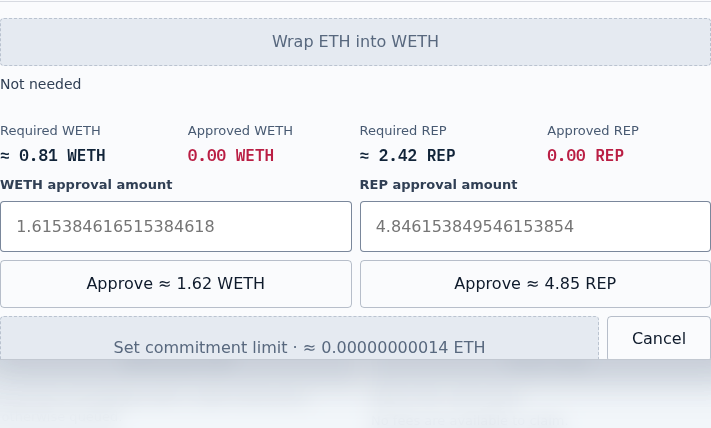
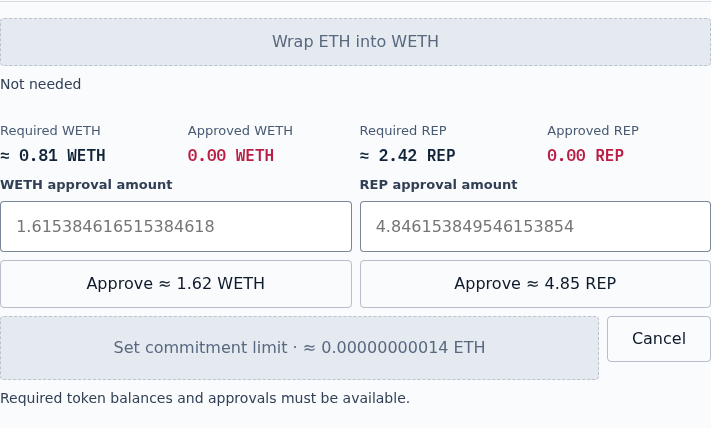
Validate persistent prerequisite controls and refresh final UI evidence

Changed region(s): [[0.0, 0.8201, 1.0, 0.9416]]

diff --git a/ui/statoblastShared/ts/features/security-pools/components/SecurityVaultSection.tsx b/ui/statoblastShared/ts/features/security-pools/components/SecurityVaultSection.tsx
@@ -10,17 +10,13 @@ import * as commonCopy from '@zoltar/ui-core-shared/copy/common.js'
 import * as securityPoolCopy from '../../../copy/securityPool.js'
 import { useEffect, useId, useRef, useState } from 'preact/hooks'
 import { AddressValue } from '@zoltar/ui-core-shared/components/AddressValue.js'
-import { CurrencyValue } from '@zoltar/ui-core-shared/components/CurrencyValue.js'
 import { FormInput } from '@zoltar/ui-core-shared/components/FormInput.js'
 import { LookupFieldRow } from '@zoltar/ui-core-shared/components/LookupFieldRow.js'
 import { LoadingText } from '@zoltar/ui-core-shared/components/LoadingText.js'
-import { MetricGrid } from '@zoltar/ui-core-shared/components/MetricGrid.js'
-import { MetricField } from '@zoltar/ui-core-shared/components/MetricField.js'
 import { OperationModal } from '@zoltar/ui-core-shared/components/OperationModal.js'
 import { RouteWorkflowPanel } from '@zoltar/ui-core-shared/components/RouteWorkflowPanel.js'
 import { SectionBlock } from '@zoltar/ui-core-shared/components/SectionBlock.js'
 import { StateHint } from '@zoltar/ui-core-shared/components/StateHint.js'
-import { TimestampValue } from '@zoltar/ui-core-shared/components/TimestampValue.js'
 import { normalizeAddress, sameAddress } from '@zoltar/ui-core-shared/lib/address.js'
 import { formatCurrencyBalanceWithUnit, formatCurrencyInputBalance } from '@zoltar/ui-core-shared/lib/formatters.js'
 import { balanceShortage } from '@zoltar/ui-core-shared/forms/inputs.js'
@@ -63,9 +59,8 @@ import {
 import type { SecurityVaultSectionProps } from '../../types.js'
 import { VaultBackingFactorForm, VaultBackingFactorModal } from './VaultBackingFactorForm.js'
 import { SelectedVaultSummarySection } from './SelectedVaultSummarySection.js'
-import { RepPriceStatusLabel } from './RepPriceStatusLabel.js'
 import { VaultQueuedOperationStatusCards } from './VaultQueuedOperationStatusCard.js'
-import { VaultActionLaunchers, VaultDepositAmountField, VaultDepositApprovalControl, VaultRepExitActionButton, VaultRepWithdrawAmountField } from './SecurityVaultActionFields.js'
+import { VaultWithdrawalSummaryMetrics, VaultActionLaunchers, VaultDepositAmountField, VaultDepositApprovalControl, VaultRepExitActionButton, VaultRepWithdrawAmountField } from './SecurityVaultActionFields.js'
 import { SecurityVaultInlineActionSections } from './SecurityVaultInlineActionSections.js'
 
 export function SecurityVaultSection({
@@ -507,28 +502,7 @@ export function SecurityVaultSection({
 					<>
 						{effectiveRepExitMode === 'redeem' ? null : <VaultQueuedOperationStatusCards {...operationStatusProps} operation='withdrawRep' />}
 						<SelectedVaultSummarySection {...selectedVaultSummaryProps} underwritingLimitAttoEth={currentSelectedVaultDetails.underwritingLimitAttoEth} securityVaultDetails={currentSelectedVaultDetails} variant='embedded' />
-						<MetricGrid>
-							<MetricField label={repExitAmountLabel}>
-								{(() => {
-									if (effectiveRepExitMode === 'redeem') {
-										if (redeemableRepAmountAttoRep === undefined) return '—'
-
-										return <CurrencyValue value={redeemableRepAmountAttoRep} suffix={commonCopy.rep} />
-									}
-									if (maximumWithdrawableAttoRep === undefined) return '—'
-
-									return <CurrencyValue value={maximumWithdrawableAttoRep} suffix={commonCopy.rep} />
-								})()}
-								{effectiveRepExitMode === 'redeem' || !withdrawalPrice.isEstimate ? undefined : <RepPriceStatusLabel />}
-							</MetricField>
-							{effectiveRepExitMode === 'redeem' ? (
-								<MetricField label={commonCopy.disputeStakedAttoRep}>
-									<CurrencyValue value={currentSelectedVaultDetails.disputeStakedAttoRep} suffix={commonCopy.rep} />
-								</MetricField>
-							) : (
-								<MetricField label={securityPoolCopy.priceValidUntil}>{oraclePriceValidUntilTimestamp === undefined ? commonCopy.unavailable : <TimestampValue timestamp={oraclePriceValidUntilTimestamp} />}</MetricField>
-							)}
-						</MetricGrid>
+						<VaultWithdrawalSummaryMetrics amountLabel={repExitAmountLabel} maximumWithdrawableAttoRep={maximumWithdrawableAttoRep} isEstimate={withdrawalPrice.isEstimate} priceValidUntil={oraclePriceValidUntilTimestamp} />
 						{repWithdrawAmountField}
 						{effectiveRepExitMode === 'redeem' ? null : stagedOperationTimeoutField}
 						{withdrawPriceFields}

diff --git a/ui/statoblast/ts/tests/app/requestPriceModal.test.tsx b/ui/statoblast/ts/tests/app/requestPriceModal.test.tsx
@@ -270,7 +270,7 @@ test('prepares approval and request actions alongside editable price controls in
 		expect(queries.queryByRole('button', { name: 'Review funding and steps' })).toBeNull()
 		expect(submitted).toBe(0)
 		await act(() => fireEvent.input(queries.getByRole('textbox', { name: 'OpenOracle REP per ETH starting price' }), { target: { value: '' } }))
-		expect(queries.queryByRole('button', { name: /Approve.*REP/ })).toBeNull()
+		expect(queries.getByRole('button', { name: /Approve.*REP/ }).hasAttribute('disabled')).toBe(true)
 		expect(document.querySelector('.transaction-funding')).toBeNull()
 		for (const value of ['0', '-1', 'abc', '0.0000000000000000001', (2n ** 256n).toString()]) {
 			await act(() => fireEvent.input(queries.getByRole('textbox', { name: 'OpenOracle REP per ETH starting price' }), { target: { value } }))
@@ -1084,7 +1084,7 @@ test('ignores a quote completed after the dialog closes and reopens', async () =
 	}
 })
 
-test('keeps the empty price form compact until an estimate is entered', async () => {
+test('keeps funding controls visible and disabled until a price estimate is entered', async () => {
 	const dom = installDomEnvironment()
 	let preparations = 0
 	const rendered = await renderIntoDocument(
@@ -1100,7 +1100,9 @@ test('keeps the empty price form compact until an estimate is entered', async ()
 		const queries = within(document.body)
 		expect(queries.getByText('Enter a starting price.')).not.toBeNull()
 		expect(document.querySelector('.transaction-funding')).toBeNull()
-		expect(queries.queryByRole('button', { name: /Approve.*(REP|WETH)/ })).toBeNull()
+		const approvals = queries.getAllByRole('button', { name: /Approve.*(REP|WETH)/ })
+		expect(approvals).toHaveLength(2)
+		expect(approvals.every(button => button.hasAttribute('disabled'))).toBe(true)
 		const button = queries.getByRole('button', { name: /^Request new price/ })
 		expect(button.hasAttribute('disabled')).toBe(true)
 		const reasonId = button.getAttribute('aria-describedby')
@@ -1146,7 +1148,7 @@ test('keeps the preview while satisfied approvals are skipped before the final r
 		await act(() => fireEvent.input(queries.getByRole('textbox', { name: 'OpenOracle REP per ETH starting price' }), { target: { value: '1.25' } }))
 		await settle()
 		expect(transactionSteps.value?.activeIndex).toBe(-1)
-		expect(rendered.container.querySelectorAll('.approval-amount-field')).toHaveLength(0)
+		expect(rendered.container.querySelectorAll('.approval-amount-field')).toHaveLength(2)
 		expect(queries.getByRole('button', { name: /Preparing funding and approvals/ }).hasAttribute('disabled')).toBe(true)
 		// The busy button carries the preparing state; the prompt paragraph does not repeat it.
 		expect(rendered.container.querySelector('.price-request-estimate-prompt')?.textContent).toBe('')

diff --git a/ui/statoblastShared/ts/features/security-pools/components/SecurityVaultActionFields.tsx b/ui/statoblastShared/ts/features/security-pools/components/SecurityVaultActionFields.tsx
@@ -1,3 +1,8 @@
+import { CurrencyValue } from '@zoltar/ui-core-shared/components/CurrencyValue.js'
+import { MetricGrid } from '@zoltar/ui-core-shared/components/MetricGrid.js'
+import { MetricField } from '@zoltar/ui-core-shared/components/MetricField.js'
+import { TimestampValue } from '@zoltar/ui-core-shared/components/TimestampValue.js'
+import { RepPriceStatusLabel } from './RepPriceStatusLabel.js'
 import { UserMessage } from '@zoltar/ui-core-shared/components/UserMessage.js'
 import * as commonCopy from '@zoltar/ui-core-shared/copy/common.js'
 import * as securityPoolCopy from '../../../copy/securityPool.js'
@@ -235,5 +240,17 @@ export function VaultActionLaunchers({
 			<ErrorNotice message={securityVaultError} />
 			<ErrorNotice message={walletRepBalanceError} />
 		</>
+	)
+}
+
+export function VaultWithdrawalSummaryMetrics({ amountLabel, maximumWithdrawableAttoRep, isEstimate, priceValidUntil }: { amountLabel: string; maximumWithdrawableAttoRep: bigint | undefined; isEstimate: boolean; priceValidUntil: bigint | undefined }) {
+	return (
+		<MetricGrid>
+			<MetricField label={amountLabel}>
+				<CurrencyValue value={maximumWithdrawableAttoRep} suffix={commonCopy.rep} />
+				{isEstimate ? <RepPriceStatusLabel /> : undefined}
+			</MetricField>
+			<MetricField label={securityPoolCopy.priceValidUntil}>{priceValidUntil === undefined ? commonCopy.unavailable : <TimestampValue timestamp={priceValidUntil} />}</MetricField>
+		</MetricGrid>
 	)
 }

diff --git a/ui/coreShared/ts/components/TransactionFundingActionsPlaceholder.tsx b/ui/coreShared/ts/components/TransactionFundingActionsPlaceholder.tsx
@@ -10,7 +10,7 @@ export function TransactionFundingActionsPlaceholder({ actionLabel, loading, res
 			<div className='transaction-plan-action transaction-plan-action-wide'>
 				<TransactionActionButton idleLabel={transactionCopy.wrapEthIntoWeth} pendingLabel={commonCopy.loading} availability={{ disabled: true, reason: transactionCopy.prerequisitesRequired }} onClick={() => undefined} />
 			</div>
-			{['WETH', commonCopy.rep].map(tokenSymbol => (
+			{[commonCopy.weth, commonCopy.rep].map(tokenSymbol => (
 				<div key={tokenSymbol} className='transaction-plan-action'>
 					<TokenApprovalControl
 						compact
